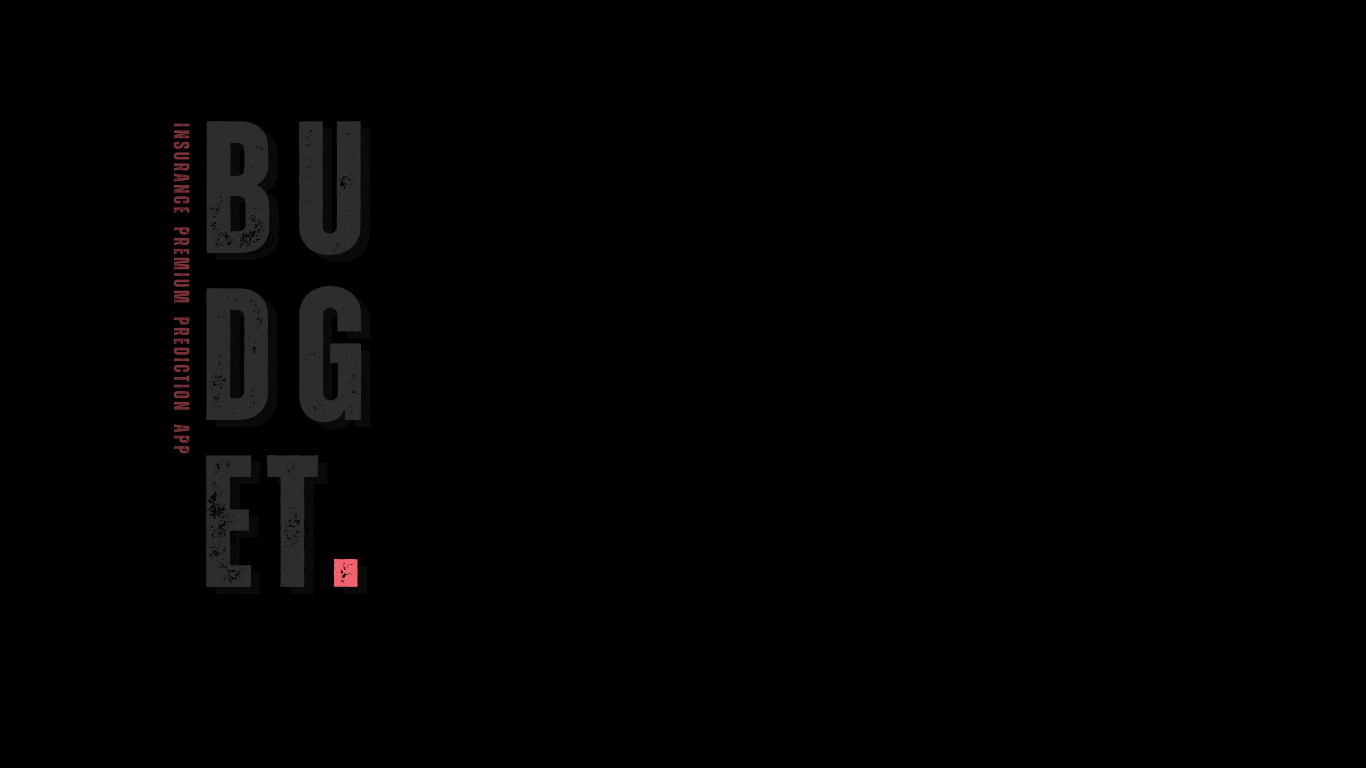
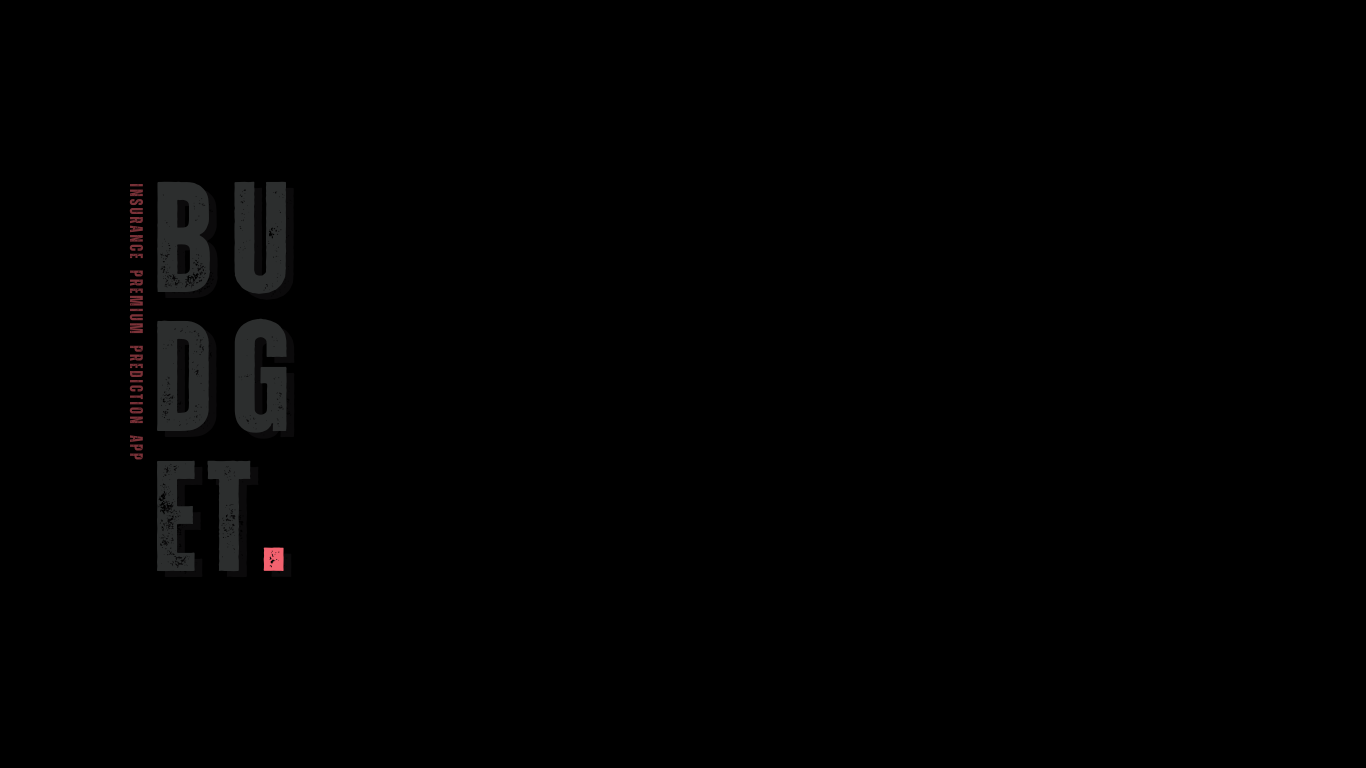
Started the stremalit setup

Changed region(s): [[0.0922, 0.1562, 0.2767, 0.7812]]

diff --git a/style.css b/style.css
@@ -1,5 +1,5 @@
 [data-testid="stAppViewContainer"] {
-    background-image: url("https://raw.githubusercontent.com/dileepNaiduOne/MakeMeSmart/refs/heads/main/img/MMS-background.png");
+    background-image: url("https://raw.githubusercontent.com/dileepNaiduOne/BUDGET-LifeInsurancePredictionApp/refs/heads/main/images/background.png");
     background-position: center;
     background-repeat: no-repeat;
     background-size: cover;
